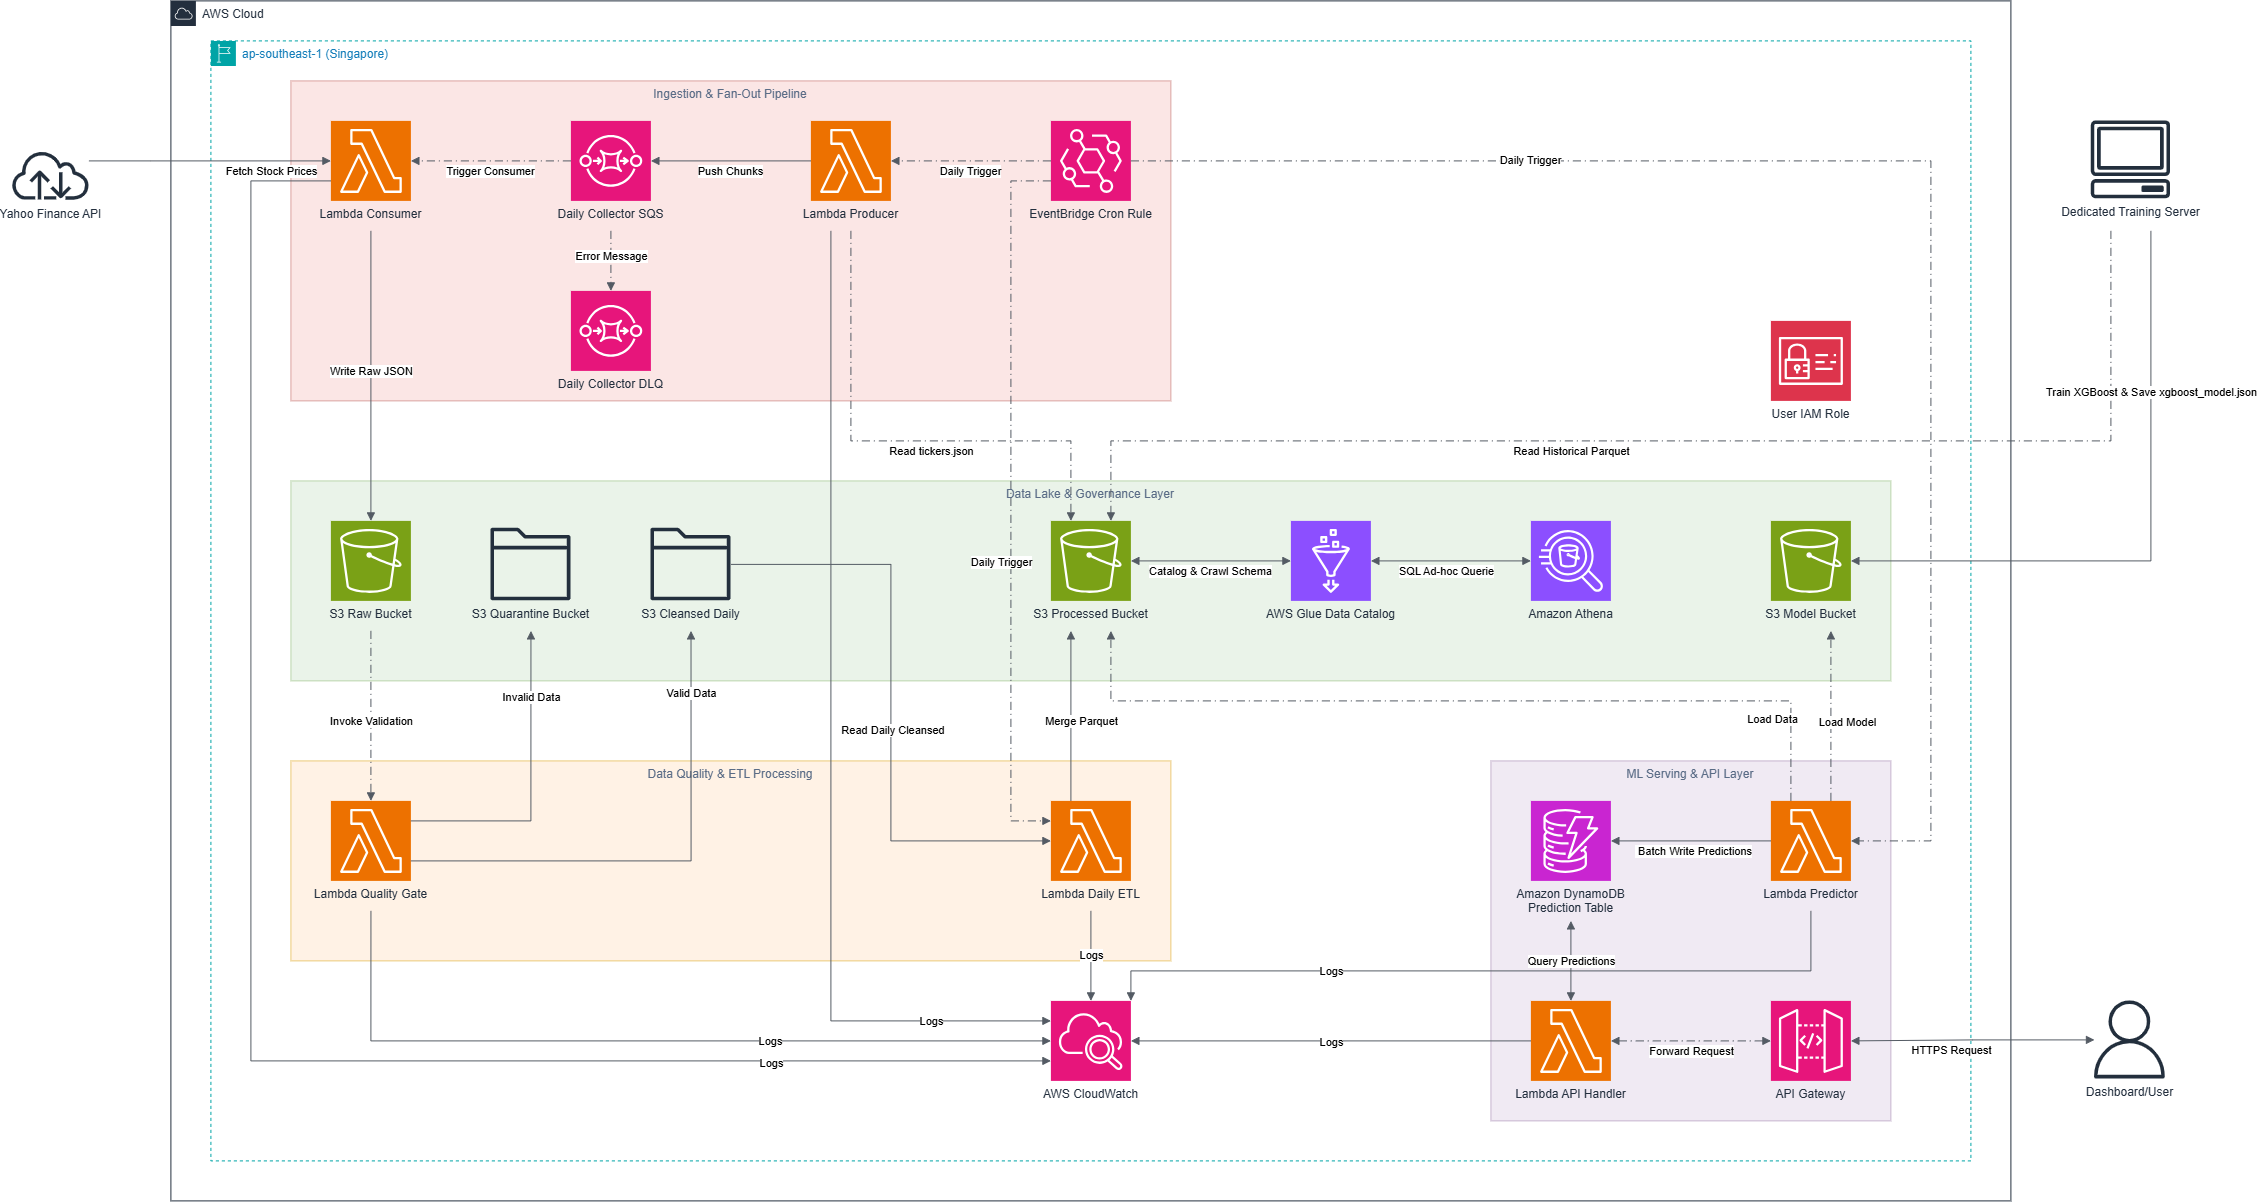
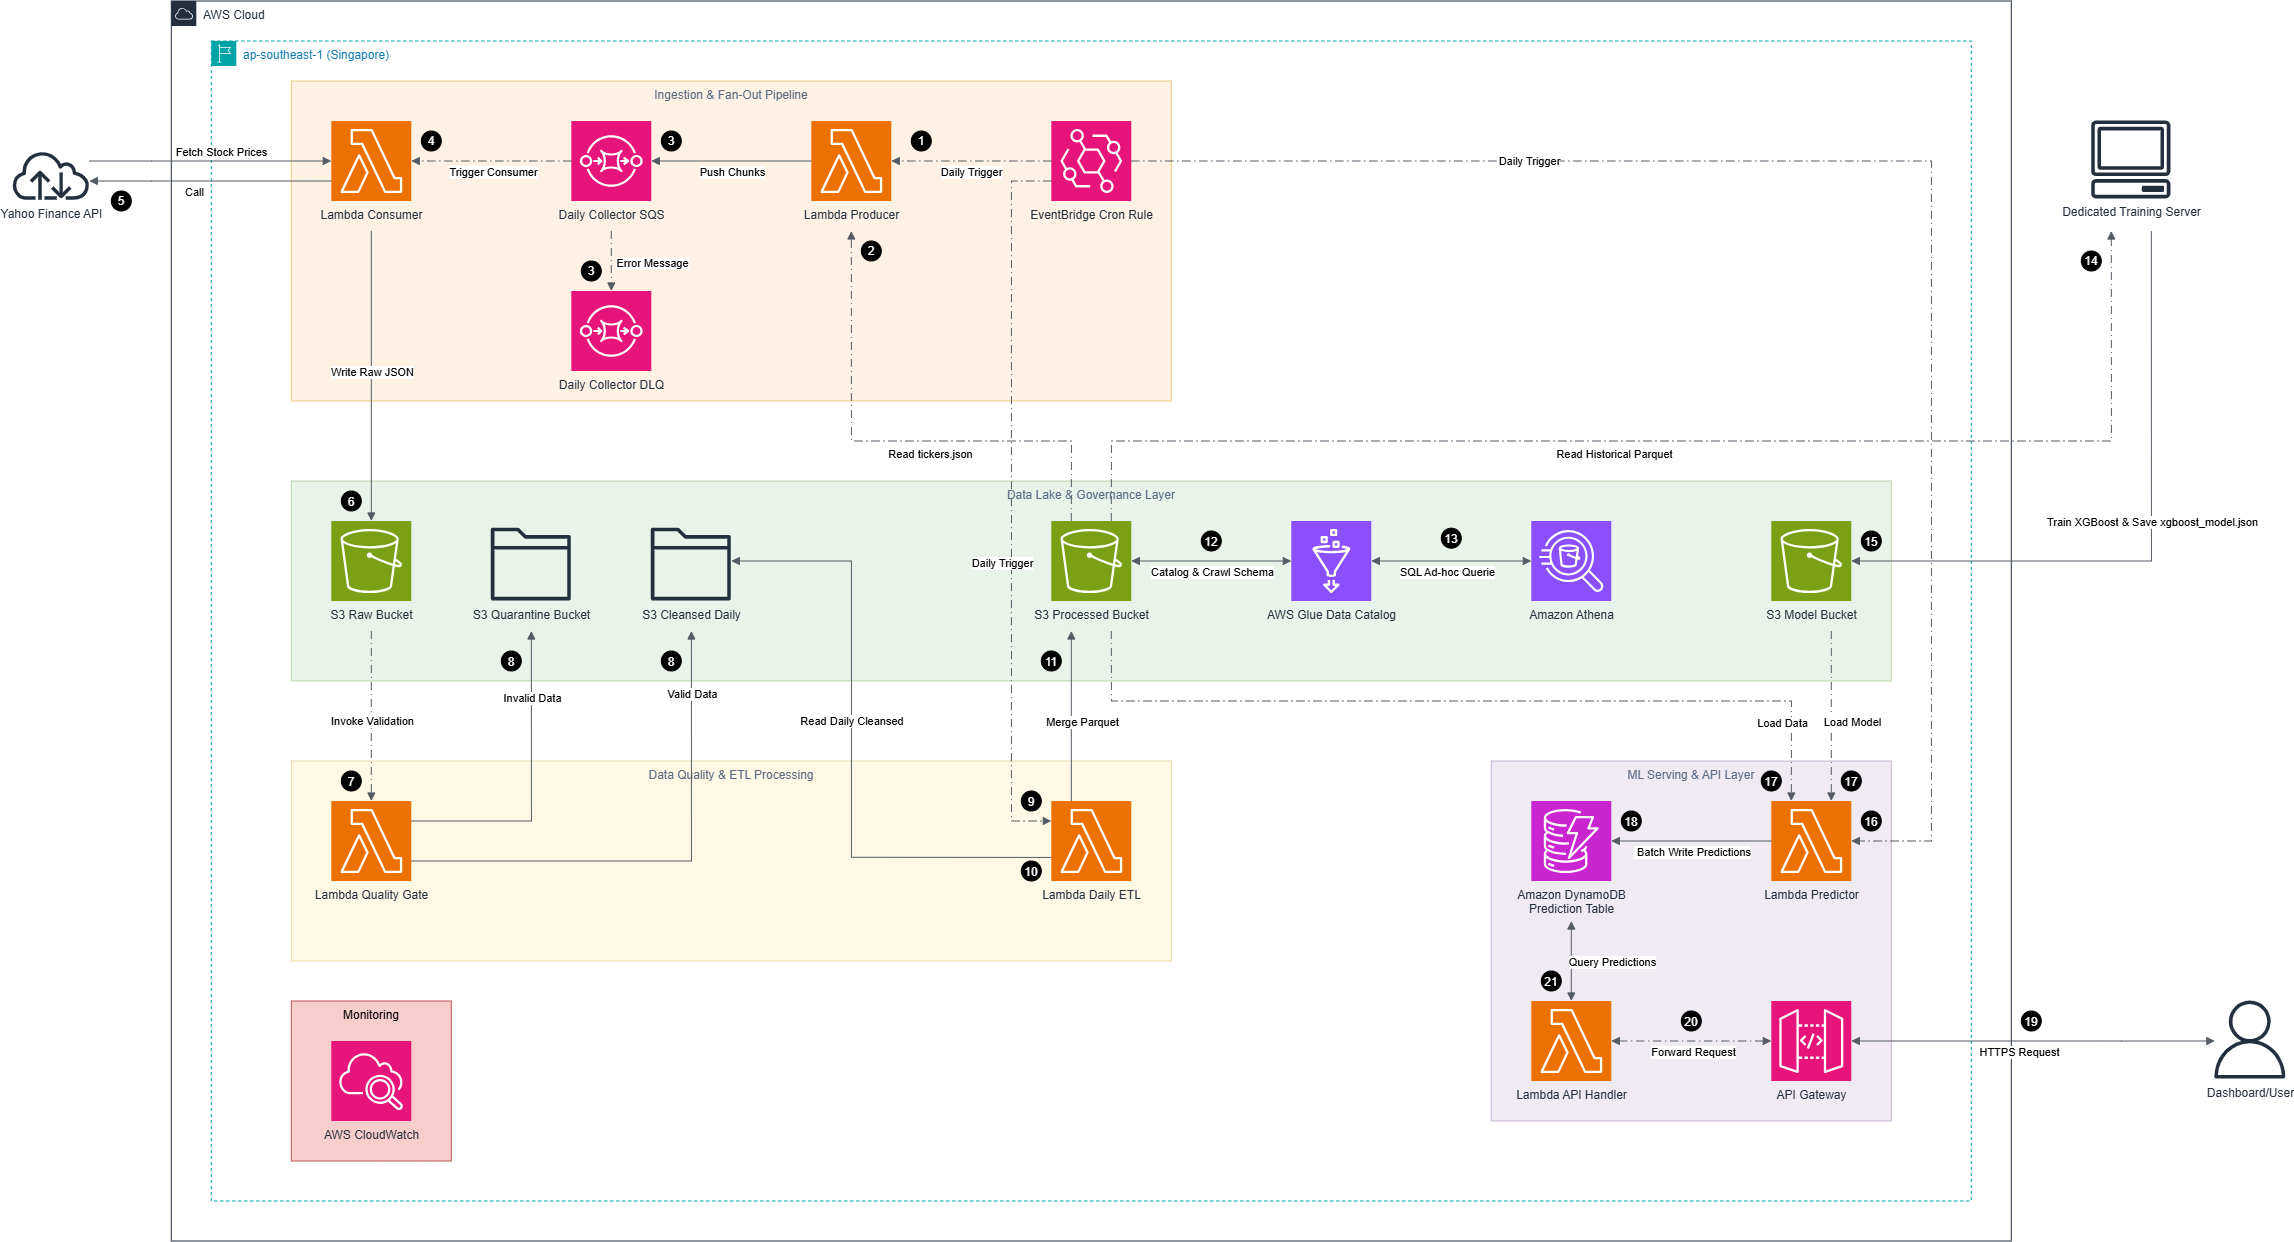
add Blogs Post and new system architecture image

diff --git a/000000-Workshop/ETL-Stock-Workshop/content/3-BlogsPosted/_index.vi.md b/000000-Workshop/ETL-Stock-Workshop/content/3-BlogsPosted/_index.vi.md
@@ -8,11 +8,31 @@ pre : " <b> 3. </b> "
 
 #### Bài viết đã đăng
 
-*[Danh sách các bài viết kỹ thuật đã được đăng tải trong thời gian thực hiện dự án — bao gồm link, ngày đăng và tóm tắt nội dung.]*
+*Tổng hợp các bài viết chia sẻ kiến thức kỹ thuật và đóng góp cộng đồng đã được đăng tải trên nhóm AWS Study Group FCJ trong quá trình thực hiện dự án.*
 
 ---
 
-| # | Tiêu đề | Nền tảng | Ngày đăng | Link |
-|:---|:---|:---|:---|:---|
-| | | | | |
+#### 📝 Danh sách bài viết kỹ thuật
 
+| # | Tiêu đề bài viết | Cộng đồng / Nền tảng | Chủ đề chính | Link bài viết |
+|:---:|:---|:---|:---|:---:|
+| **1** | **Khám Phá Serverless: Tương Lai Của Điện Toán Đám Mây** | AWS Study Group FCJ | Tổng quan về mô hình Serverless, kiến trúc dựa trên sự kiện (Event-driven), khả năng mở rộng tự động và tối ưu chi phí. | [Xem bài viết](https://www.facebook.com/groups/awsstudygroupfcj/posts/2228758111222482) |
+| **2** | **Chinh Phục AWS Lambda Từ Con Số 0 - Vũ Khí Bí Mật Của Serverless** | AWS Study Group FCJ | Hướng dẫn chi tiết AWS Lambda từ cơ bản đến nâng cao, môi trường thực thi, trigger sự kiện và đóng gói Docker Container. | [Xem bài viết](https://www.facebook.com/groups/awsstudygroupfcj/posts/2228706637894296) |
+
+---
+
+### 📌 Tóm tắt nội dung các bài viết
+
+#### 1. [Khám Phá Serverless: Tương Lai Của Điện Toán Đám Mây](https://www.facebook.com/groups/awsstudygroupfcj/posts/2228758111222482)
+* **Đối tượng hướng đến:** Lập trình viên, Cloud Engineer và KTS Giải pháp muốn dịch chuyển từ hạ tầng máy chủ truyền thống sang Serverless.
+* **Nội dung cốt lõi:**
+  * Định niệm về **Serverless Computing** và lý do mô hình này trở thành xu hướng hàng đầu trong thiết kế phần mềm hiện đại.
+  * Mô hình tính chi phí Pay-as-you-go: Giảm thiểu tối đa chi phí tài nguyên nhàn rỗi và công sức quản lý máy chủ.
+  * Ứng dụng thực tế trong hệ thống Big Data ETL, API Backend và tự động hóa tác vụ theo sự kiện.
+
+#### 2. [Chinh Phục AWS Lambda Từ Con Số 0 - Vũ Khí Bí Mật Của Serverless](https://www.facebook.com/groups/awsstudygroupfcj/posts/2228706637894296)
+* **Đối tượng hướng đến:** Kỹ sư xây dựng các hàm Serverless phục vụ xử lý dữ liệu và Microservices.
+* **Nội dung cốt lõi:**
+  * Hướng dẫn toàn diện về **AWS Lambda**: Vòng đời thực thi, môi trường Runtime và phân quyền IAM.
+  * Tích hợp Lambda với các nguồn kích hoạt: S3 Event Notifications, SQS Queue, API Gateway và EventBridge Cron.
+  * Best Practices tối ưu hiệu năng: Xử lý Cold Start, cấu hình dung lượng bộ nhớ RAM và triển khai bằng Docker Container Image.

diff --git a/000000-Workshop/ETL-Stock-Workshop/content/3-BlogsPosted/_index.md b/000000-Workshop/ETL-Stock-Workshop/content/3-BlogsPosted/_index.md
@@ -8,11 +8,31 @@ pre : " <b> 3. </b> "
 
 #### Blogs Posted
 
-*[List of technical blog posts written during the project period — includes links, publish dates, and summaries.]*
+*Collection of technical articles and community contributions published on the AWS Study Group FCJ platform during the project lifecycle.*
 
 ---
 
-| # | Title | Platform | Published Date | Link |
-|:---|:---|:---|:---|:---|
-| | | | | |
+#### 📝 Published Technical Articles
 
+| # | Article Title | Community / Platform | Topics Covered | Link |
+|:---:|:---|:---|:---|:---:|
+| **1** | **Khám Phá Serverless: Tương Lai Của Điện Toán Đám Mây** | AWS Study Group FCJ | Overview of Serverless paradigm, event-driven architecture, scalability, and cost efficiency in modern cloud engineering. | [Read Post](https://www.facebook.com/groups/awsstudygroupfcj/posts/2228758111222482) |
+| **2** | **Chinh Phục AWS Lambda Từ Con Số 0 - Vũ Khí Bí Mật Của Serverless** | AWS Study Group FCJ | Deep dive into AWS Lambda fundamentals, execution environment, triggers, containerized deployment, and best practices. | [Read Post](https://www.facebook.com/groups/awsstudygroupfcj/posts/2228706637894296) |
+
+---
+
+### 📌 Summary & Core Takeaways of Published Articles
+
+#### 1. [Khám Phá Serverless: Tương Lai Của Điện Toán Đám Mây](https://www.facebook.com/groups/awsstudygroupfcj/posts/2228758111222482)
+* **Target Audience:** Developers, Cloud Engineers, and Solution Architects looking to transition from monolithic/EC2 infrastructure to Serverless.
+* **Key Topics:**
+  * Fundamental concepts of **Serverless Computing** and why it is transforming software architecture.
+  * Pay-as-you-go pricing model: Reducing operational overhead and idle resource costs.
+  * Real-world application scenarios: Big Data ETL pipelines, API backends, and event-driven automation.
+
+#### 2. [Chinh Phục AWS Lambda Từ Con Số 0 - Vũ Khí Bí Mật Của Serverless](https://www.facebook.com/groups/awsstudygroupfcj/posts/2228706637894296)
+* **Target Audience:** Hands-on engineers building serverless functions for data processing and backend microservices.
+* **Key Topics:**
+  * Comprehensive guide to **AWS Lambda** lifecycle, execution context, and IAM security permissions.
+  * Connecting Lambda with event triggers: S3 Event Notifications, SQS Queues, API Gateway, and EventBridge Cron.
+  * Best practices for performance optimization: Handling Cold Starts, memory allocation tuning, and Docker Container Image deployment.
